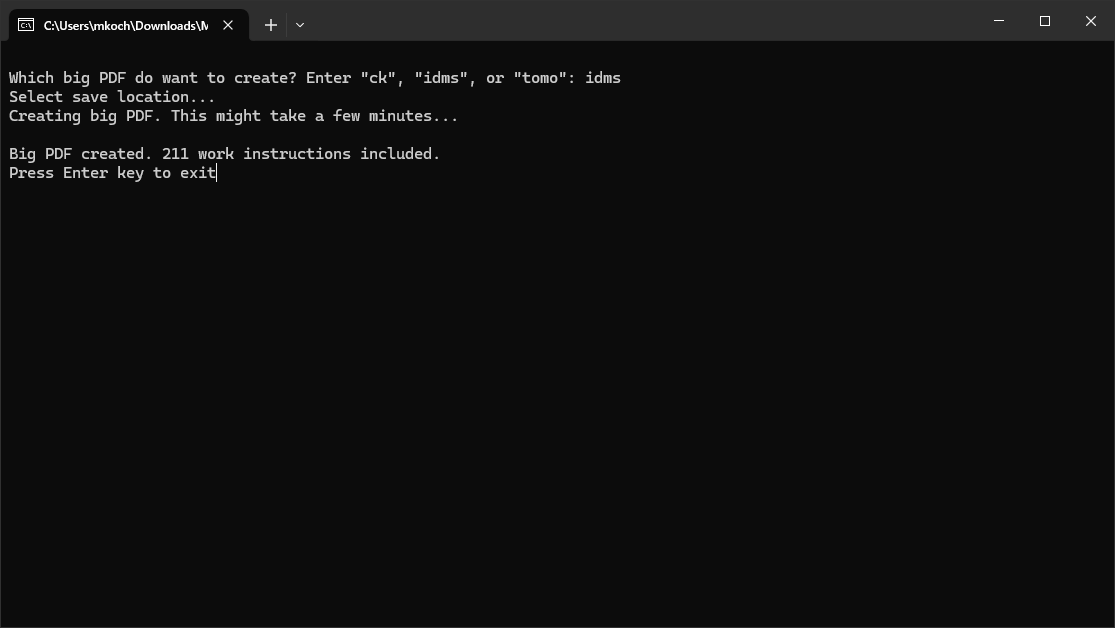
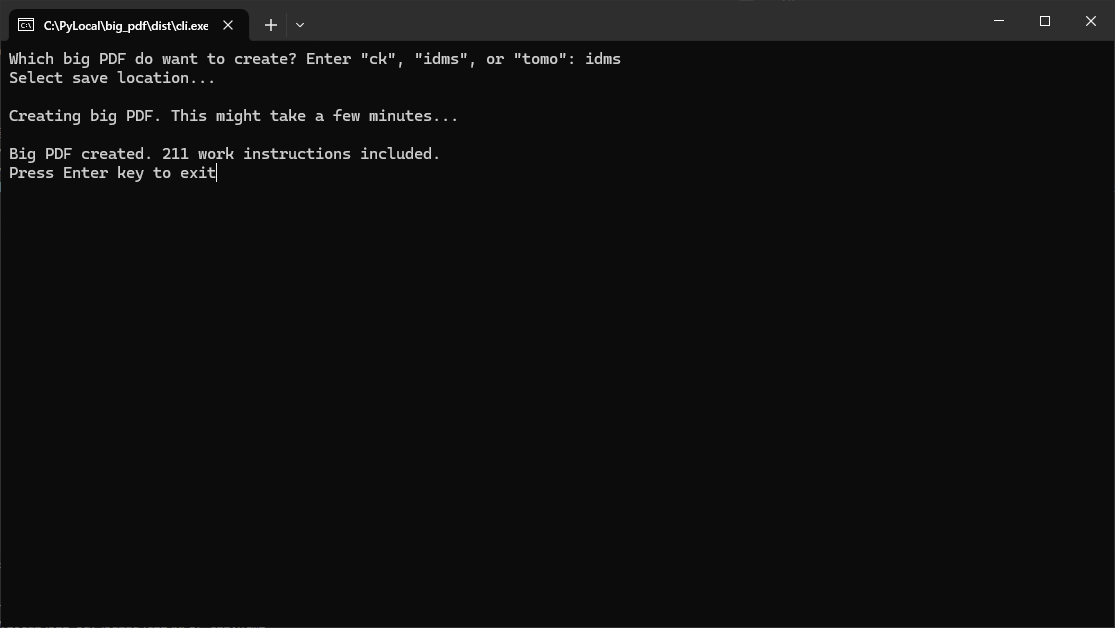
refactored cli.py and modified readme

Changed region(s): [[0.0, 0.0908, 0.5489, 0.1815], [0.0, 0.9984, 0.2439, 1.0], [0.061, 0.0303, 0.183, 0.0605]]

diff --git a/big_pdf_writer.py b/big_pdf_writer.py
@@ -1,6 +1,6 @@
 from pathlib import Path
 from pypdf import PdfWriter
-from itertools import islice      # use for testing slices
+# from itertools import islice      # use for testing slices
 
 from directories import DIRECTORIES
 
@@ -14,8 +14,8 @@ def create_writer(glob_dir):
 
     writer = PdfWriter()
     added_to_big_pdf = []
-    for filepath in islice(glob_dedup.values(), 10):        # use for testing slices
-    # for filepath in glob_dedup.values():
+    # for filepath in islice(glob_dedup.values(), 10):        # use for testing slices
+    for filepath in glob_dedup.values():
         try:
             writer.append(fr"{str(filepath)}", import_outline=False)
             added_to_big_pdf.append(str(filepath.name) + "\n")
@@ -32,7 +32,7 @@ def compress_writer(writer):
     
     return writer
 
-def write_the_writer(writer, added_to_big_pdf, pdf_output_path):
+def write_writer(writer, added_to_big_pdf, pdf_output_path):
     with pdf_output_path.open(mode="wb") as output_file:
         writer.write(output_file)
 
@@ -48,10 +48,10 @@ if __name__ == "__main__":
     tomo_output_path = Path(r"C:\Users\mkoch\Downloads\tomo.pdf")
 
     writer, added_to_big_pdf = create_writer(DIRECTORIES["ck"])
-    write_the_writer(compress_writer(writer), added_to_big_pdf, ck_output_path)
+    write_writer(compress_writer(writer), added_to_big_pdf, ck_output_path)
 
     writer, added_to_big_pdf = create_writer(DIRECTORIES["idms"])
-    write_the_writer(compress_writer(writer), added_to_big_pdf, idms_output_path)
+    write_writer(compress_writer(writer), added_to_big_pdf, idms_output_path)
 
     writer, added_to_big_pdf = create_writer(DIRECTORIES["tomo"])
-    write_the_writer(compress_writer(writer), added_to_big_pdf, tomo_output_path)
+    write_writer(compress_writer(writer), added_to_big_pdf, tomo_output_path)

diff --git a/cli.py b/cli.py
@@ -2,7 +2,15 @@ from pathlib import Path
 from tkinter.filedialog import asksaveasfilename
 
 from directories import DIRECTORIES
-from big_pdf import create_big_pdf
+from big_pdf_writer import create_writer, compress_writer, write_writer
+
+def main():
+    input_directory = None
+    while not input_directory in DIRECTORIES:
+        input_directory = input('Which big PDF do want to create? Enter "ck", "idms", or "tomo": ')
+    get_filename_and_save(input_directory)
+    input("Press Enter key to exit")
+    print("Cleaning up...") 
 
 def get_filename_and_save(input_directory):
     print("Select save location...")
@@ -12,13 +20,9 @@ def get_filename_and_save(input_directory):
     )
     if not output_path :
         return
-    print("Creating big PDF. This might take a few minutes...")
-    num_files = create_big_pdf(DIRECTORIES[input_directory], Path(output_path))
+    print("\nCreating big PDF. This might take a few minutes...")
+    writer, added_to_big_pdf = create_writer(DIRECTORIES[input_directory])
+    num_files = write_writer(compress_writer(writer), added_to_big_pdf, Path(output_path))
     print(f"\nBig PDF created. {num_files} work instructions included.")
 
-input_directory = None
-while not input_directory in DIRECTORIES:
-    input_directory = input('\nWhich big PDF do want to create? Enter "ck", "idms", or "tomo": ')
-get_filename_and_save(input_directory)
-input("Press Enter key to exit")
-print("Cleaning up...")
+main()

diff --git a/README.md b/README.md
@@ -18,4 +18,8 @@ Open the "big_pdf_maker.exe" file, and choose from which folder you would like t
 
 ![CLI](/images/command_line.png)
 
+If there an error when trying to add a file to the big PDF, you will be notified and the file will be skipped.
+
+![Bad files](/images/bad_files.png)
+
 Windows Defender might warn about viruses - there are no viruses.
